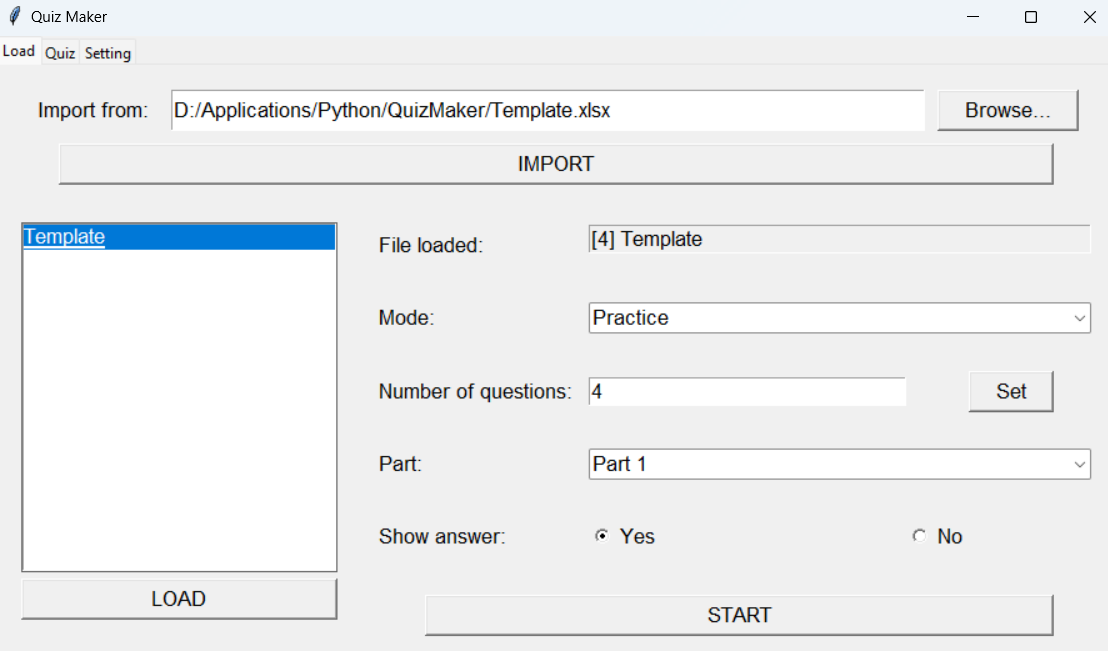
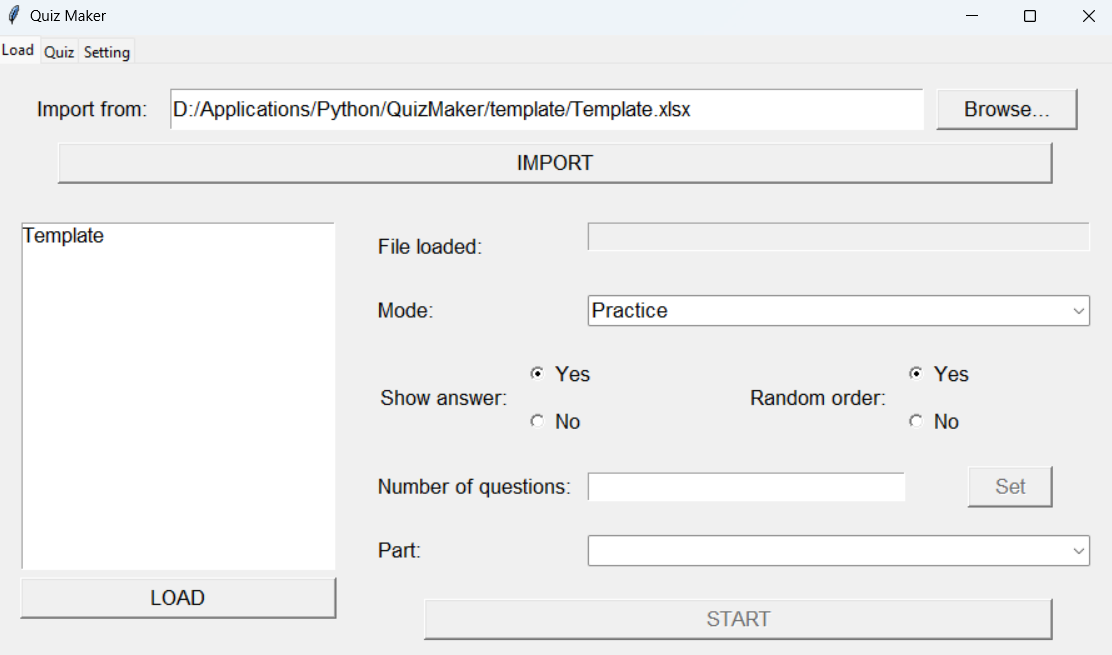
Update README.md and add some setting

diff --git a/scripts/guiwindow.py b/scripts/guiwindow.py
@@ -567,6 +567,9 @@ class GUIWINDOW:
         self.lbShowAnswer.config(font=('Arial', self.layout['genFontSize']))
         self.rdBtnShowAnswerYes.config(font=('Arial', self.layout['genFontSize']))
         self.rdBtnShowAnswerNo.config(font=('Arial', self.layout['genFontSize']))
+        self.lbRandomOrder.config(font=('Arial', self.layout['genFontSize']))
+        self.rdBtnRandomOrderNo.config(font=('Arial', self.layout['genFontSize']))
+        self.rdBtnRandomOrderYes.config(font=('Arial', self.layout['genFontSize']))
         self.lbMode.config(font=('Arial', self.layout['genFontSize']))
         self.cbbMode.config(font=('Arial', self.layout['genFontSize']))
         self.lbNumOfQues.config(font=('Arial', self.layout['genFontSize']))

diff --git a/README.md b/README.md
@@ -16,17 +16,22 @@ Just run `main.py`. There are 3 tabs in total: `Load`, `Quiz` and `Setting`
 
 First area will be used to import quiz from file. It is currently support excel extension `.xlsx`, `.xls`, `.csv` and word extension `.docx`, others will be improved in the future! You can scroll down to the [template example](#template) for importing files.
 
-After importing file, the file will be parsed and automatically added to the second area. Select the item and click `LOAD` (You can also double click on the item) and it will be loaded in to program for preparing quiz.
+After importing file, the file will be parsed and automatically added to the second area as following:
 
 ![Alt text](images/after-import.png)
+
+Select the item and click `LOAD` (You can also double click on the item) and it will be loaded in to program for preparing quiz:
+
+![Alt text](images/after-load.png)
 
 On the third area, there are plenty of things as follows:
 
 - `File loaded`: After you click `LOAD` (or double click on item), this field will display the name of loaded quiz
-- `Mode`: There are 2 mode: `Practice` and `Quiz`. Mode `Practice` will let you play and learn quiz with a static order while mode `Quiz` will random the question. Remember to press button `Set` of the next field to save setting
+- `Mode`: There are 2 mode: `Practice` and `Quiz`. Mode `Practice` will let you play and learn quiz with a static order while mode `Quiz` will random the question
 - `Show answer`: This option let you see the answer both in `Practice` mode and in `Quiz` mode and will be saved with just button `START`. After you press `START`, changing `Show answer` will not show or hide the answer
-- `Number of question`: Choose the number of question you want to play. This option is available for both `Practice` and `Quiz` mode. After you enter the number, make sure to press button `Set`
-- `Part`: If you choose `Practice` mode, this field will calculcate the number of parts with each part has `Number of question` you have set. On the other hand, if you choose `Quiz` mode, it will show `random`
+- `Random order`: This field is only available in `Practice` mode
+- `Number of question`: Choose the number of question you want to play. This option is available for both `Practice` and `Quiz` mode to save the number of question. After you enter the number, make sure to press button `Set`
+- `Part`: If you choose `Practice` mode and click `Set`, this field will calculcate the number of parts with each part has `Number of question` you have set. On the other hand, if you choose `Quiz` mode, it will show `random`
 
 ## Quiz
 
@@ -73,6 +78,4 @@ Here is example for format in word (no matter how much newline between them but 
 
 ![Alt text](images/word-template.png)
 
-Download [Excel Template](./template/Template.xlsx)
-
-Download [Word Template](./template/Template.docx)
+Download template here: [Excel Template](./template/Template.xlsx), [Word Template](./template/Template.docx)
